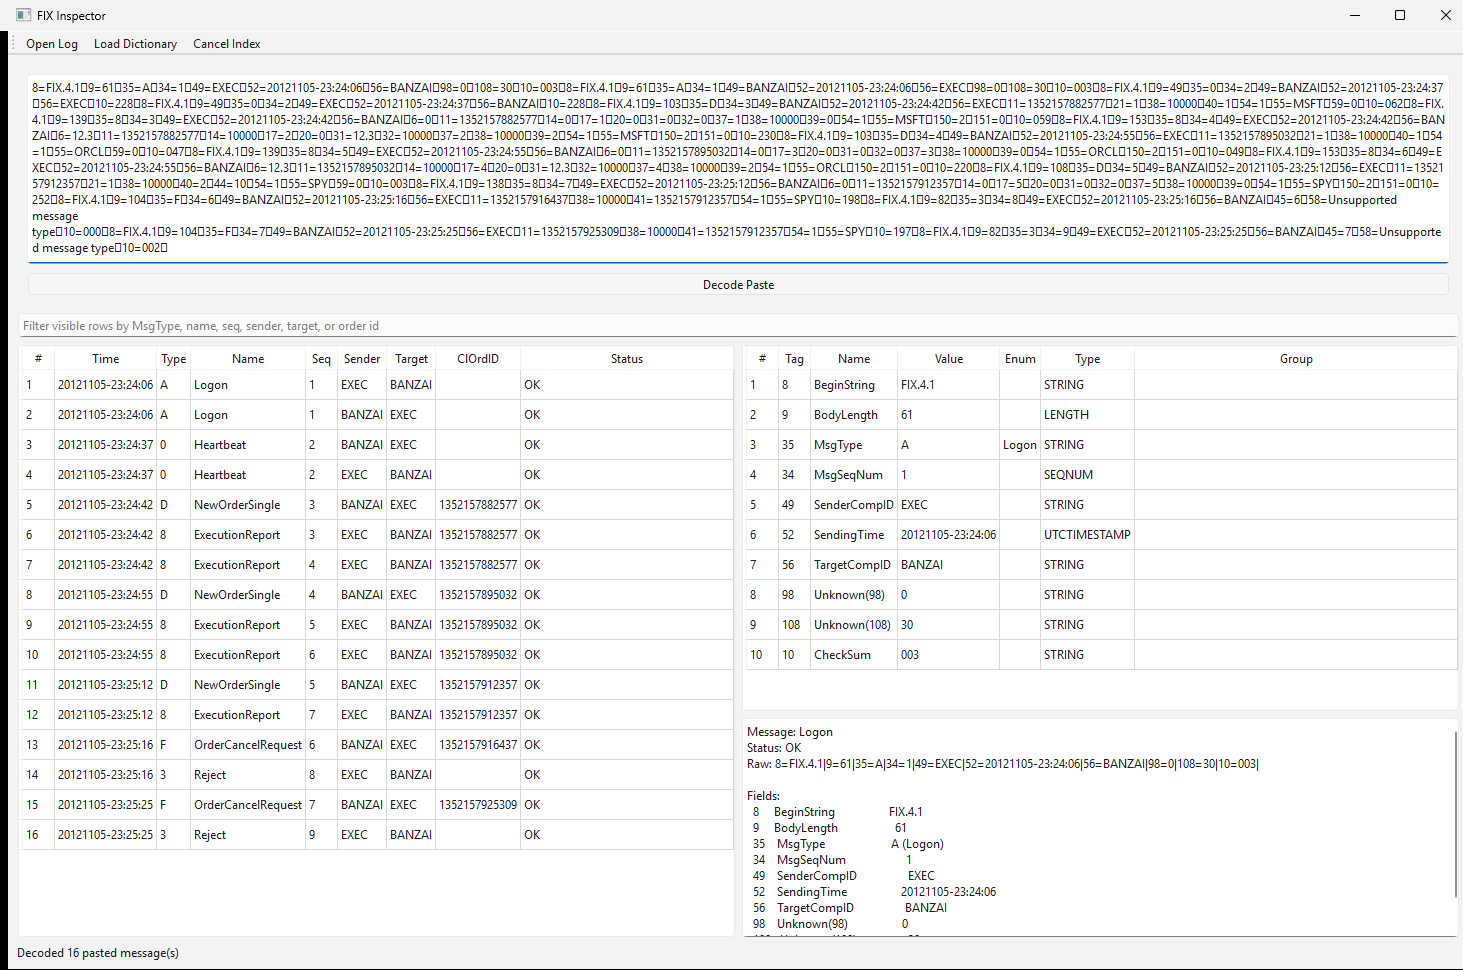
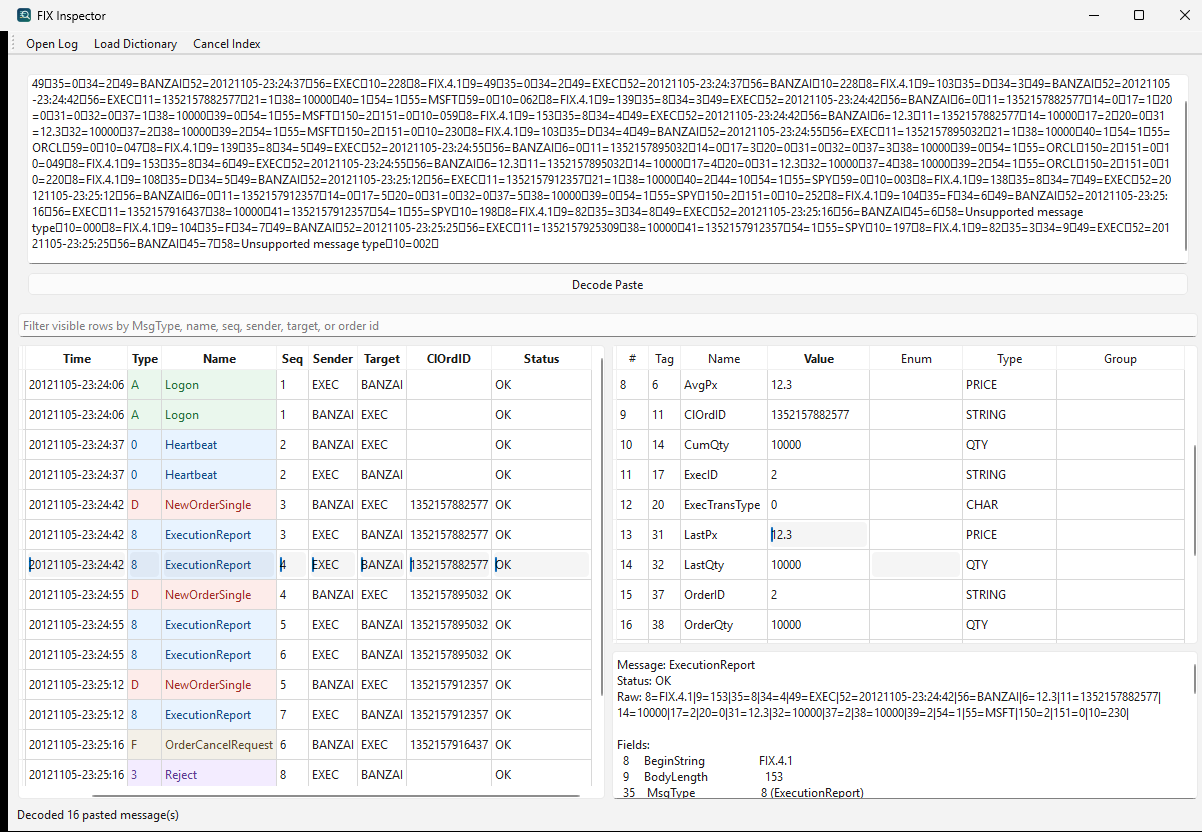
feat: show message type colour

diff --git a/tests/test_gui.py b/tests/test_gui.py
@@ -1,0 +1,74 @@
+from __future__ import annotations
+
+from PySide6.QtCore import Qt
+
+from fixinspector.core.models import MessageSummary
+from fixinspector.gui import MessageTableModel
+from fixinspector.indexing import IndexEntry
+
+
+def make_summary(
+    msg_type: str | None = "D",
+    msg_name: str | None = "NewOrderSingle",
+    sender: str | None = "CLIENT",
+    target: str | None = "BROKER",
+) -> MessageSummary:
+    return MessageSummary(
+        begin_string="FIX.4.2",
+        msg_type=msg_type,
+        msg_name=msg_name,
+        seq_num="1",
+        sender=sender,
+        target=target,
+        sending_time="20260518-01:02:03.000",
+        cl_ord_id="ABC-1",
+        order_id=None,
+        exec_id=None,
+        validation_status="OK",
+    )
+
+
+def make_entry(row: int, summary: MessageSummary) -> IndexEntry:
+    return IndexEntry(row=row, offset=0, length=0, summary=summary)
+
+
+def brush_color_name(model: MessageTableModel, row: int, column: int, role: Qt.ItemDataRole) -> str:
+    brush = model.data(model.index(row, column), role)
+    return brush.color().name()
+
+
+def test_message_table_columns_are_unchanged_except_type_coloring() -> None:
+    assert MessageTableModel.COLUMNS == (
+        "#",
+        "Time",
+        "Type",
+        "Name",
+        "Seq",
+        "Sender",
+        "Target",
+        "ClOrdID",
+        "Status",
+    )
+
+
+def test_message_type_and_name_share_stable_colors() -> None:
+    model = MessageTableModel()
+    model.set_entries(
+        [
+            make_entry(0, make_summary(msg_type="D", msg_name="NewOrderSingle")),
+            make_entry(1, make_summary(msg_type="D", msg_name="NewOrderSingle")),
+            make_entry(2, make_summary(msg_type="8", msg_name="ExecutionReport")),
+        ]
+    )
+
+    first_type_background = brush_color_name(model, 0, 2, Qt.BackgroundRole)
+    first_name_background = brush_color_name(model, 0, 3, Qt.BackgroundRole)
+    second_type_background = brush_color_name(model, 1, 2, Qt.BackgroundRole)
+    execution_type_background = brush_color_name(model, 2, 2, Qt.BackgroundRole)
+
+    assert first_type_background == first_name_background
+    assert first_type_background == second_type_background
+    assert first_type_background != execution_type_background
+
+    assert brush_color_name(model, 0, 2, Qt.ForegroundRole) == brush_color_name(model, 0, 3, Qt.ForegroundRole)
+    assert model.data(model.index(0, 1), Qt.BackgroundRole) is None

diff --git a/fixinspector/gui.py b/fixinspector/gui.py
@@ -5,7 +5,7 @@ from importlib import resources
 from pathlib import Path
 
 from PySide6.QtCore import QAbstractTableModel, QModelIndex, QObject, Qt, QThread, Signal
-from PySide6.QtGui import QAction, QDragEnterEvent, QDropEvent, QIcon, QKeySequence, QShortcut
+from PySide6.QtGui import QAction, QBrush, QColor, QDragEnterEvent, QDropEvent, QIcon, QKeySequence, QShortcut
 from PySide6.QtWidgets import (
     QApplication,
     QFileDialog,
@@ -50,6 +50,17 @@ def app_icon() -> QIcon:
 
 class MessageTableModel(QAbstractTableModel):
     COLUMNS = ("#", "Time", "Type", "Name", "Seq", "Sender", "Target", "ClOrdID", "Status")
+    TYPE_COLUMNS = (2, 3)
+    TYPE_COLORS = (
+        ("#e8f3ff", "#0f4c81"),  # blue
+        ("#eaf7ed", "#1f6f3a"),  # green
+        ("#fff4db", "#8a5a00"),  # amber
+        ("#f3ecff", "#5a3d8f"),  # purple
+        ("#fdecea", "#9f2f24"),  # red
+        ("#e7f7f7", "#12656a"),  # teal
+        ("#f3f0e8", "#5b4b2a"),  # olive
+        ("#edf1f7", "#314763"),  # slate
+    )
 
     def __init__(self) -> None:
         super().__init__()
@@ -67,10 +78,21 @@ class MessageTableModel(QAbstractTableModel):
         return 0 if parent.isValid() else len(self.COLUMNS)
 
     def data(self, index: QModelIndex, role: int = Qt.DisplayRole):
-        if not index.isValid() or role not in (Qt.DisplayRole, Qt.ToolTipRole):
+        if not index.isValid():
             return None
         entry = self.entries[index.row()]
         summary = entry.summary
+        column = index.column()
+
+        if role in (Qt.BackgroundRole, Qt.ForegroundRole) and column in self.TYPE_COLUMNS:
+            if not summary.msg_type:
+                return None
+            background, foreground = self._type_colors(summary.msg_type)
+            return QBrush(QColor(background if role == Qt.BackgroundRole else foreground))
+
+        if role not in (Qt.DisplayRole, Qt.ToolTipRole):
+            return None
+
         values = (
             entry.row + 1,
             summary.sending_time or "",
@@ -82,7 +104,12 @@ class MessageTableModel(QAbstractTableModel):
             summary.cl_ord_id or summary.order_id or summary.exec_id or "",
             summary.validation_status,
         )
-        return values[index.column()]
+        return values[column]
+
+    @classmethod
+    def _type_colors(cls, msg_type: str) -> tuple[str, str]:
+        color_index = sum((index + 1) * ord(char) for index, char in enumerate(msg_type)) % len(cls.TYPE_COLORS)
+        return cls.TYPE_COLORS[color_index]
 
     def headerData(self, section: int, orientation: Qt.Orientation, role: int = Qt.DisplayRole):
         if orientation == Qt.Horizontal and role == Qt.DisplayRole:

diff --git a/README.md b/README.md
@@ -4,6 +4,8 @@
 
 Offline FIX message viewer and decoder for troubleshooting trade logs.
 
+![Main UI](./docs/screenshots/main.png)
+
 ## Requirements
 
 - Python 3.12+
@@ -16,8 +18,6 @@ Offline FIX message viewer and decoder for troubleshooting trade logs.
 python -m pip install -e .
 python -m fixinspector
 ```
-
-![Main UI](./docs/screenshots/main.png)
 
 ## Install from PyPI
 